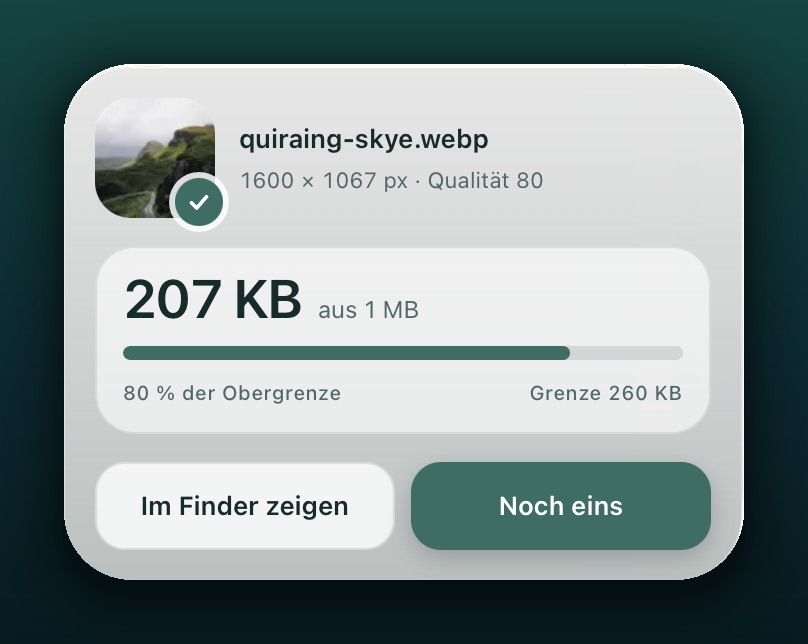
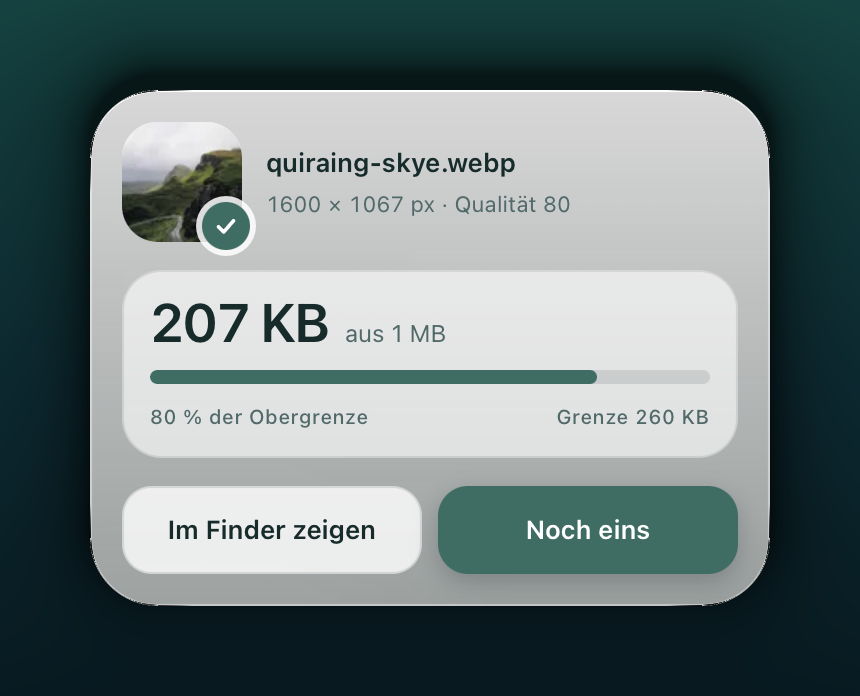
Bildschirmfotos mit geglätteten Kanten
Die Rundungen waren treppig: beim Freistellen gehörte ein Pixel
entweder ganz zum Panel oder gar nicht. Jetzt gibt es eine Deckung
zwischen 0 und 1 aus dem Abstand zur Rundung, also eine Kante von
einem Pixel Breite, so wie das Fenster sie selbst zeichnet. Dazu
werden Randpixel nicht mehr übernommen — die sind schon mit dem
Hintergrund verrechnet, der beim Fotografieren dahinter lag, und
schleppten einen hellen Saum mit.

Beide Aufnahmen sind neu, aus dem Debug-Build mit festgesetzter
Panelposition, damit der Ausschnitt exakt sitzt statt gesucht zu
werden. Inhalt unverändert.

Changed region(s): [[0.0619, 0.0932, 0.9282, 0.9006]]

diff --git a/README.md b/README.md
@@ -8,7 +8,7 @@ da und wieder weg, und rechnet alles auf dem eigenen Rechner.
 <p align="center">
   <img src="docs/panel-ruhe.png" width="200" alt="Preen im Ruhezustand: ein kleines quadratisches Panel mit Federzeichen und dem Text „Bild hierher ziehen“">
   &nbsp;&nbsp;&nbsp;
-  <img src="docs/panel-fertig.png" width="326" alt="Preen nach der Verarbeitung: Dateiname quiraing-skye.webp, 1600 × 1067 px bei Qualität 80, 207 KB aus 1 MB, 80 Prozent der Obergrenze">
+  <img src="docs/panel-fertig.png" width="314" alt="Preen nach der Verarbeitung: Dateiname quiraing-skye.webp, 1600 × 1067 px bei Qualität 80, 207 KB aus 1 MB, 80 Prozent der Obergrenze">
 </p>
 
 ## Installieren
